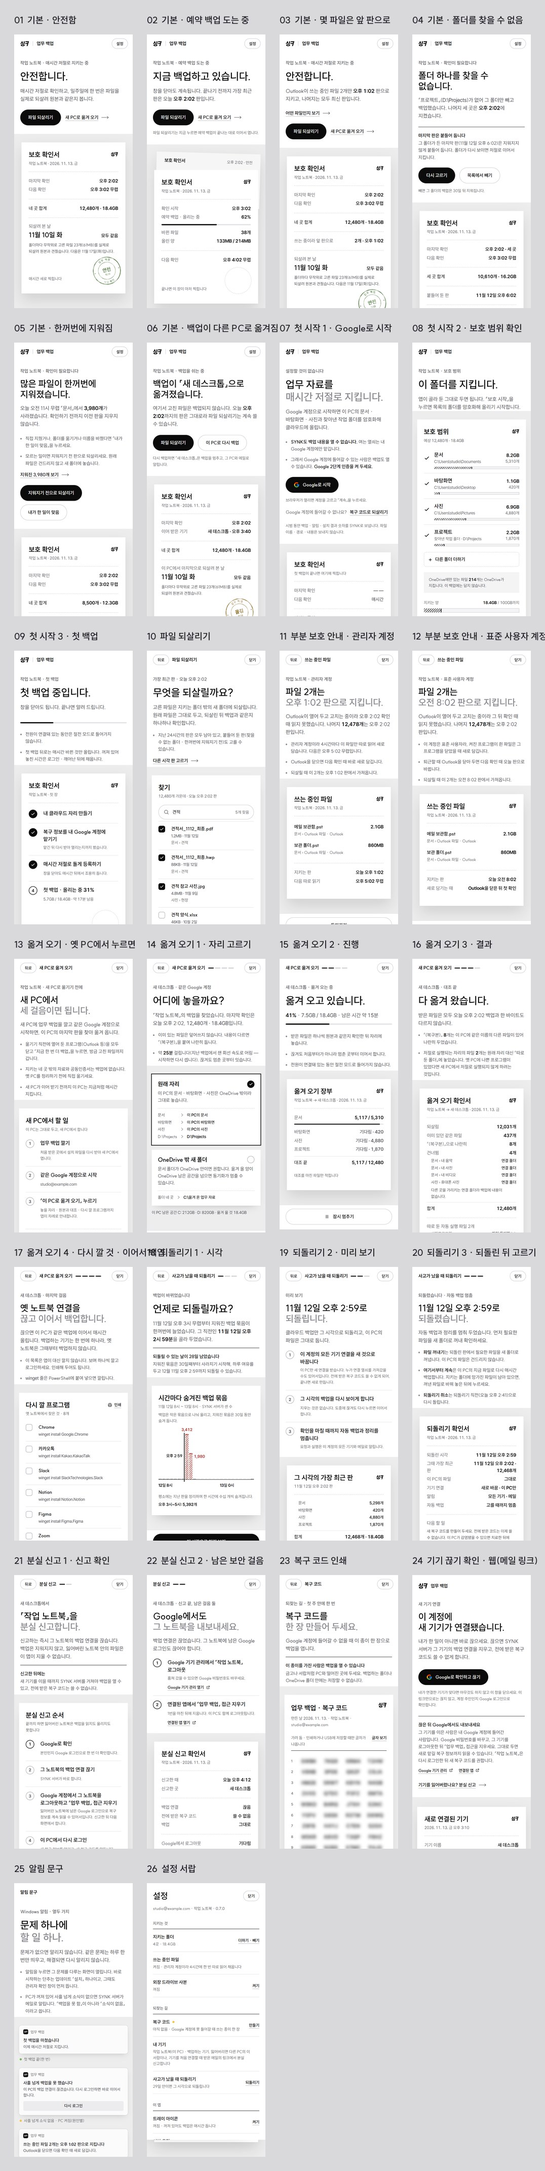
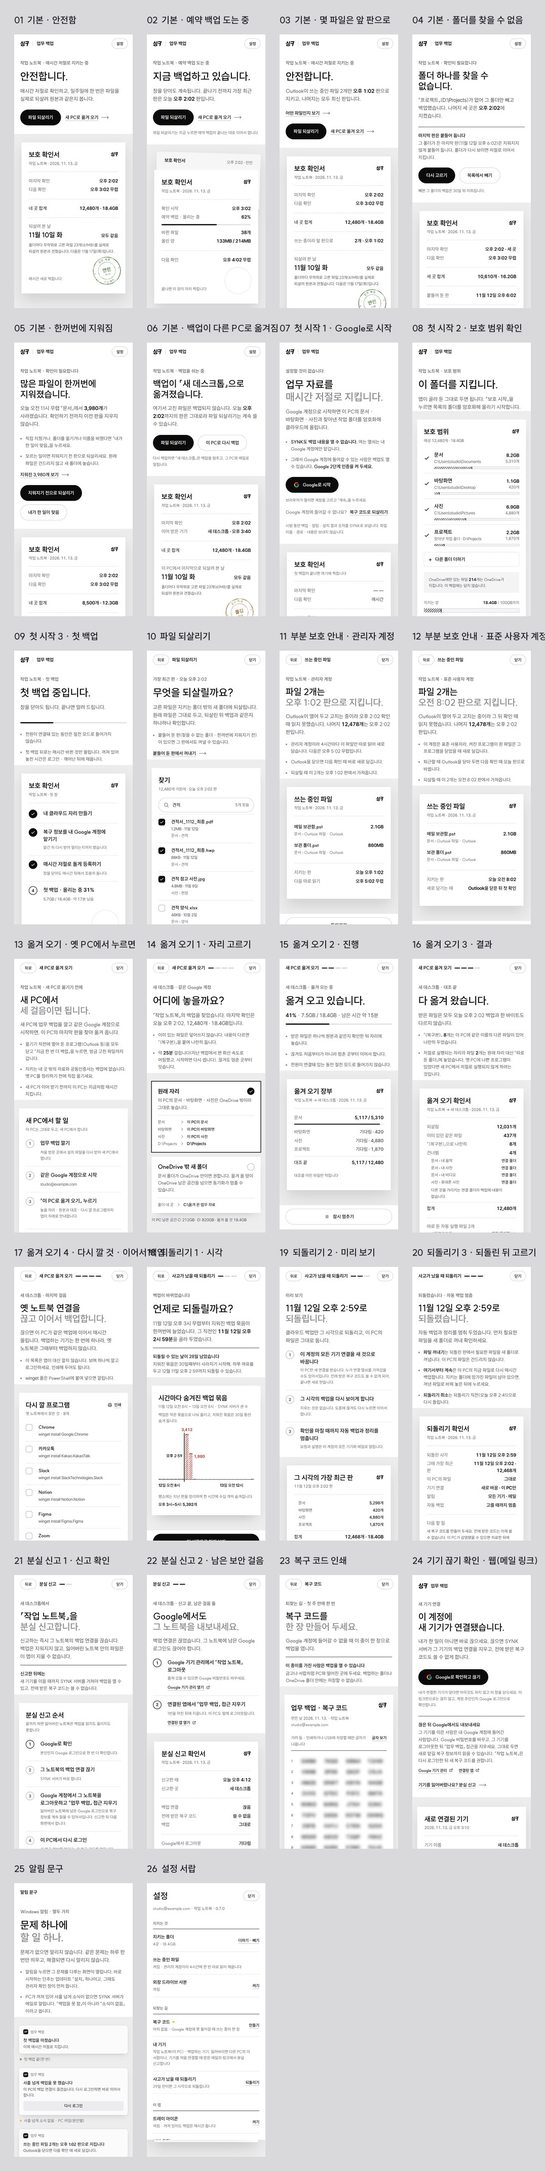
fix(업무 백업 0.7.0 화면 A · Fable 5.2 다시 확인 반영 · 11-13): F1 닫힘 · 새 P0 · P1 0 · P2 2 · P3 3 모두 반영. R1(꼭): 카본 ③을 받으며 되살리기에 넣은 「지난 24시간의 판은 모두 남아 있고 … 다른 시각 판 고르기」가 결정 11-12(화면 · 상품은 「최신 하나」, 「지난 판 고르기」는 유료 구간 후보)를 말없이 뒤집었다 → 「붙들어 둔 판(찾을 수 없는 폴더 · 한꺼번에 지워지기 전)이 있으면 그 판에서도 꺼낼 수 있습니다」 + 「붙들어 둔 판에서 꺼내기」(있을 때만)

Changed region(s): [[0.276, 0.4967, 0.46, 0.5588], [0.276, 0.3415, 0.3987, 0.4346]]

diff --git a/experiences/solo-backup-rust/ui-mockups/a-확인서.html b/experiences/solo-backup-rust/ui-mockups/a-확인서.html
@@ -250,9 +250,10 @@ h1.m{font-size:44px;line-height:1.18}
 .bars .pick{position:absolute;top:-6px;bottom:-8px;width:0;border-left:2px solid var(--ink)}
 .bars .pick span{position:absolute;top:40%;right:8px;font-size:13px;font-weight:700;white-space:nowrap}
 .ticks{display:grid;grid-template-columns:repeat(25,minmax(0,1fr));gap:5px;margin-top:8px;font-family:var(--num);font-size:13px;color:var(--ink-3)}
-.ticks span{visibility:hidden;text-align:center;white-space:nowrap}
+.ticks span{visibility:hidden;justify-self:center;white-space:nowrap}
 .ticks span.s{visibility:visible}
-.ticks span.d{visibility:visible;text-align:left;color:var(--ink);font-weight:600}
+.ticks span.d{visibility:visible;justify-self:start;color:var(--ink);font-weight:600}
+.ticks span.e{justify-self:end}
 .legend{display:flex;justify-content:space-between;align-items:baseline;gap:16px;margin-top:16px;font-size:13px;color:var(--ink-3);line-height:1.55}
 .legend b{color:var(--ink);font-weight:600;white-space:nowrap}
 .why{font-size:13px;line-height:1.55;color:var(--ink-3);margin-top:6px}
@@ -691,7 +692,7 @@ body.is-full .flow .act{position:static}
     <div class="top-r"><button class="tbtn" type="button">닫기</button></div></header>
   <div class="l">
     <div class="lt"><p class="kick">가장 최근 판 · 오늘 오후 2:02</p><h1 class="">무엇을 되살릴까요?</h1><p class="sub">고른 파일은 지키는 폴더 밖의 새 폴더에 되살립니다. 원래 파일은 그대로 두고, 되살린 뒤 백업과 같은지 하나하나 확인합니다.</p></div>
-    <div class="lx"><div class="notes"><p class="note">지난 24시간의 판은 모두 남아 있고, 붙들어 둔 판(찾을 수 없는 폴더 · 한꺼번에 지워지기 전)도 고를 수 있습니다.</p></div><a class="lnk" href="#restore" style="margin-top:14px">다른 시각 판 고르기 <svg class="la" viewBox="0 0 44 16" aria-hidden="true"><path d="M1 8h41M35 1l7 7-7 7"/></svg></a></div>
+    <div class="lx"><div class="notes"><p class="note">붙들어 둔 판(찾을 수 없는 폴더 · 한꺼번에 지워지기 전)이 있으면 그 판에서도 꺼낼 수 있습니다.</p></div><a class="lnk" href="#restore" style="margin-top:14px">붙들어 둔 판에서 꺼내기 <svg class="la" viewBox="0 0 44 16" aria-hidden="true"><path d="M1 8h41M35 1l7 7-7 7"/></svg></a></div>
     <div class="act"><button class="btn btn-solid" type="button">고른 3개 되살리기</button><button class="btn btn-line" type="button">전체 12,480개 되살리기</button></div>
     
   </div>
@@ -774,7 +775,7 @@ body.is-full .flow .act{position:static}
     <div class="top-r"><button class="tbtn" type="button">닫기</button></div></header>
   <div class="l">
     <div class="lt"><p class="kick">새 데스크톱 · 같은 Google 계정</p><h1 class="">어디에 놓을까요?</h1><p class="sub">「작업 노트북」의 백업을 찾았습니다. 마지막 확인은 오늘 오후 2:02, <span class="num keep">12,480개 · 18.4GB</span>입니다.</p></div>
-    <div class="lx"><div class="notes"><p class="note">이미 있는 파일은 덮어쓰지 않습니다. 내용이 다르면 「(복구본)」을 붙여 나란히 둡니다.</p><p class="note">약 <b class="num">25분</b> 걸립니다(지난 백업에서 잰 회선 속도로 어림 — 시작하면 다시 셉니다). 끊겨도 멈춘 곳부터 잇습니다.</p></div></div>
+    <div class="lx"><div class="notes"><p class="note">이미 있는 파일은 덮어쓰지 않습니다. 내용이 다르면 「(복구본)」을 붙여 나란히 둡니다.</p><p class="note">약 <b class="num">25분</b> 걸립니다(지난 백업에서 잰 회선 속도로 어림했고, 시작하면 다시 셉니다). 끊겨도 멈춘 곳부터 잇습니다.</p></div></div>
     <div class="act"><button class="btn btn-solid" type="button">이 자리로 옮겨 오기</button><p class="alt"><span>파일이 이 PC에 그대로 남아 있나요?</span><a class="lnk" href="#move-1">되살리지 않고 이어서 백업</a></p><span class="hint">Windows를 새로 깔아 파일이 비었거나 일부만 남았으면 누르지 마세요. 「이 자리로 옮겨 오기」로 채웁니다.</span></div>
     
   </div>
@@ -882,9 +883,9 @@ body.is-full .flow .act{position:static}
     
   </div>
   <div class="r"><div class="stage"><section class="sheet wide" aria-label="시간마다 숨겨진 백업 묶음">
-      <h2>시간마다 숨겨진 백업 묶음</h2><p class="meta">11월 12일 8시 ~ 13일 8시 · SYNK 서버가 센 수</p>
+      <h2>시간마다 숨겨진 백업 묶음</h2><p class="meta">11월 12일 오전 8시 ~ 13일 오전 8시 · SYNK 서버가 센 수</p>
       <p class="why">백업은 작은 묶음으로 나눠 올리고, 지워진 묶음은 30일 동안 숨겨 둡니다.</p>
-      <div class="chart"><div class="bars"><div class="b  " style="height:1.4%"></div><div class="b  " style="height:1.4%"></div><div class="b  " style="height:1.4%"></div><div class="b  " style="height:1.4%"></div><div class="b  " style="height:1.4%"></div><div class="b  " style="height:1.4%"></div><div class="b  " style="height:1.4%"></div><div class="b hot " style="height:100%"><span class="v num">3,412</span><span class="pick" style="left:-4px"><span>오후 2:59</span></span></div><div class="b hot " style="height:58.03048065650644%"><span class="v num side">1,980</span></div><div class="b  " style="height:1.4%"></div><div class="b  z" style="height:0%"></div><div class="b  z" style="height:0%"></div><div class="b  z" style="height:0%"></div><div class="b  z" style="height:0%"></div><div class="b  z" style="height:0%"></div><div class="b  z" style="height:0%"></div><div class="b  z" style="height:0%"></div><div class="b  z" style="height:0%"></div><div class="b  z" style="height:0%"></div><div class="b  z" style="height:0%"></div><div class="b  z" style="height:0%"></div><div class="b  z" style="height:0%"></div><div class="b  z" style="height:0%"></div><div class="b  z" style="height:0%"></div><div class="b  " style="height:1.4%"></div></div><div class="ticks"><span class="d">12일 8시</span><span class="">09</span><span class="">10</span><span class="s">11</span><span class="">12</span><span class="">13</span><span class="s">14</span><span class="">15</span><span class="">16</span><span class="s">17</span><span class="">18</span><span class="">19</span><span class="s">20</span><span class="">21</span><span class="">22</span><span class="">23</span><span class="d">13일 0시</span><span class="">01</span><span class="">02</span><span class="">03</span><span class="">04</span><span class="s">05</span><span class="">06</span><span class="">07</span><span class="s">08</span></div></div>
+      <div class="chart"><div class="bars"><div class="b  " style="height:1.4%"></div><div class="b  " style="height:1.4%"></div><div class="b  " style="height:1.4%"></div><div class="b  " style="height:1.4%"></div><div class="b  " style="height:1.4%"></div><div class="b  " style="height:1.4%"></div><div class="b  " style="height:1.4%"></div><div class="b hot " style="height:100%"><span class="v num">3,412</span><span class="pick" style="left:-4px"><span>오후 2:59</span></span></div><div class="b hot " style="height:58.03048065650644%"><span class="v num side">1,980</span></div><div class="b  " style="height:1.4%"></div><div class="b  z" style="height:0%"></div><div class="b  z" style="height:0%"></div><div class="b  z" style="height:0%"></div><div class="b  z" style="height:0%"></div><div class="b  z" style="height:0%"></div><div class="b  z" style="height:0%"></div><div class="b  z" style="height:0%"></div><div class="b  z" style="height:0%"></div><div class="b  z" style="height:0%"></div><div class="b  z" style="height:0%"></div><div class="b  z" style="height:0%"></div><div class="b  z" style="height:0%"></div><div class="b  z" style="height:0%"></div><div class="b  z" style="height:0%"></div><div class="b  " style="height:1.4%"></div></div><div class="ticks"><span class="d">12일 오전 8시</span><span class="">09</span><span class="">10</span><span class="">11</span><span class="">12</span><span class="">13</span><span class="">14</span><span class="">15</span><span class="s">오후 4시</span><span class="">17</span><span class="">18</span><span class="">19</span><span class="">20</span><span class="">21</span><span class="">22</span><span class="">23</span><span class="d">13일 오전 12시</span><span class="">01</span><span class="">02</span><span class="">03</span><span class="">04</span><span class="">05</span><span class="">06</span><span class="">07</span><span class="s e">8시</span></div></div>
       <div class="legend"><span>평소에는 지난 판을 정리하며 한 시간에 수십 개씩 숨겨집니다.</span><b class="num">오후 3시~5시: 5,392개</b></div>
     </section></div></div>
 </div></section>
@@ -1083,7 +1084,7 @@ body.is-full .flow .act{position:static}
     
     
   </div>
-  <div class="r"><div class="stage"><div class="toasts"><div class="tw"><div class="toast"><div class="app"><i><svg class="mark" viewBox="0 0 560 328" role="img" aria-label="싱ㅋ"><path d="M87 8h58v30c0 46 23 76 61 103l-34 43c-29-19-52-45-66-70-15 30-36 54-64 72L8 143c49-32 79-64 79-112Z"/><path d="M222 8h58v172h-58Z"/><path fill-rule="evenodd" d="M157 192c-76 0-124 24-124 65s48 65 124 65 124-24 124-65-48-65-124-65Zm0 45c42 0 67 8 67 20s-25 20-67 20-67-8-67-20 25-20 67-20Z"/><path d="M326 8h226L464 312h-61l40-138H322v-54h137l16-55H326Z"/></svg></i>업무 백업</div><h4>첫 백업을 마쳤습니다</h4><p>이제 매시간 저절로 지킵니다.</p></div><p class="when"><b class="ok"></b>첫 백업 끝(한 번)</p></div><div class="tw"><div class="toast"><div class="app"><i><svg class="mark" viewBox="0 0 560 328" role="img" aria-label="싱ㅋ"><path d="M87 8h58v30c0 46 23 76 61 103l-34 43c-29-19-52-45-66-70-15 30-36 54-64 72L8 143c49-32 79-64 79-112Z"/><path d="M222 8h58v172h-58Z"/><path fill-rule="evenodd" d="M157 192c-76 0-124 24-124 65s48 65 124 65 124-24 124-65-48-65-124-65Zm0 45c42 0 67 8 67 20s-25 20-67 20-67-8-67-20 25-20 67-20Z"/><path d="M326 8h226L464 312h-61l40-138H322v-54h137l16-55H326Z"/></svg></i>업무 백업</div><h4>사흘 넘게 백업을 못 했습니다</h4><p>이 PC의 백업 연결이 끊겼습니다. 다시 로그인하면 바로 이어서 합니다.</p><div class="tb">다시 로그인</div></div><p class="when"><b class="warn"></b>사흘 넘게 소식 없음 · PC 켜짐(원인별)</p></div><div class="tw"><div class="toast"><div class="app"><i><svg class="mark" viewBox="0 0 560 328" role="img" aria-label="싱ㅋ"><path d="M87 8h58v30c0 46 23 76 61 103l-34 43c-29-19-52-45-66-70-15 30-36 54-64 72L8 143c49-32 79-64 79-112Z"/><path d="M222 8h58v172h-58Z"/><path fill-rule="evenodd" d="M157 192c-76 0-124 24-124 65s48 65 124 65 124-24 124-65-48-65-124-65Zm0 45c42 0 67 8 67 20s-25 20-67 20-67-8-67-20 25-20 67-20Z"/><path d="M326 8h226L464 312h-61l40-138H322v-54h137l16-55H326Z"/></svg></i>업무 백업</div><h4>쓰는 중인 파일 2개는 오후 1:02 판으로 지킵니다</h4><p>Outlook을 닫으면 다음 확인 때 새로 담깁니다.</p></div><p class="when"><b class="info"></b>몇 파일만 못 지킴</p></div><div class="tw"><div class="toast"><div class="app"><i><svg class="mark" viewBox="0 0 560 328" role="img" aria-label="싱ㅋ"><path d="M87 8h58v30c0 46 23 76 61 103l-34 43c-29-19-52-45-66-70-15 30-36 54-64 72L8 143c49-32 79-64 79-112Z"/><path d="M222 8h58v172h-58Z"/><path fill-rule="evenodd" d="M157 192c-76 0-124 24-124 65s48 65 124 65 124-24 124-65-48-65-124-65Zm0 45c42 0 67 8 67 20s-25 20-67 20-67-8-67-20 25-20 67-20Z"/><path d="M326 8h226L464 312h-61l40-138H322v-54h137l16-55H326Z"/></svg></i>업무 백업</div><h4>「프로젝트」 폴더를 찾을 수 없습니다</h4><p>마지막 판(11월 12일 오후 6:02)은 지워지지 않게 붙들어 둡니다. 다시 고르거나 목록에서 빼세요.</p><div class="tb">확인하기</div></div><p class="when"><b class="warn"></b>폴더를 찾을 수 없음</p></div><div class="tw"><div class="toast"><div class="app"><i><svg class="mark" viewBox="0 0 560 328" role="img" aria-label="싱ㅋ"><path d="M87 8h58v30c0 46 23 76 61 103l-34 43c-29-19-52-45-66-70-15 30-36 54-64 72L8 143c49-32 79-64 79-112Z"/><path d="M222 8h58v172h-58Z"/><path fill-rule="evenodd" d="M157 192c-76 0-124 24-124 65s48 65 124 65 124-24 124-65-48-65-124-65Zm0 45c42 0 67 8 67 20s-25 20-67 20-67-8-67-20 25-20 67-20Z"/><path d="M326 8h226L464 312h-61l40-138H322v-54h137l16-55H326Z"/></svg></i>업무 백업</div><h4>백업이 바뀌었습니다</h4><p>되돌릴 수 있는 날이 28일 남았습니다.</p><div class="tb">확인하기</div></div><p class="when"><b class="bad"></b>점검 실패 · 백업이 바뀜(서버 탐지)</p></div><div class="tw"><div class="toast"><div class="app"><i><svg class="mark" viewBox="0 0 560 328" role="img" aria-label="싱ㅋ"><path d="M87 8h58v30c0 46 23 76 61 103l-34 43c-29-19-52-45-66-70-15 30-36 54-64 72L8 143c49-32 79-64 79-112Z"/><path d="M222 8h58v172h-58Z"/><path fill-rule="evenodd" d="M157 192c-76 0-124 24-124 65s48 65 124 65 124-24 124-65-48-65-124-65Zm0 45c42 0 67 8 67 20s-25 20-67 20-67-8-67-20 25-20 67-20Z"/><path d="M326 8h226L464 312h-61l40-138H322v-54h137l16-55H326Z"/></svg></i>업무 백업</div><h4>되살려 보기에서 꺼내지지 않는 파일이 나왔습니다</h4><p>확인하기 전까지 이전 판을 지우지 않습니다.</p><div class="tb">확인하기</div></div><p class="when"><b class="bad"></b>되살리기 증명에서 손상 — 그날</p></div><div class="tw"><div class="toast"><div class="app"><i><svg class="mark" viewBox="0 0 560 328" role="img" aria-label="싱ㅋ"><path d="M87 8h58v30c0 46 23 76 61 103l-34 43c-29-19-52-45-66-70-15 30-36 54-64 72L8 143c49-32 79-64 79-112Z"/><path d="M222 8h58v172h-58Z"/><path fill-rule="evenodd" d="M157 192c-76 0-124 24-124 65s48 65 124 65 124-24 124-65-48-65-124-65Zm0 45c42 0 67 8 67 20s-25 20-67 20-67-8-67-20 25-20 67-20Z"/><path d="M326 8h226L464 312h-61l40-138H322v-54h137l16-55H326Z"/></svg></i>업무 백업</div><h4>많은 파일이 한꺼번에 지워졌습니다</h4><p>「문서」에서 3,980개. 확인하기 전까지 이전 판을 지우지 않습니다.</p><div class="tb">확인하기</div></div><p class="when"><b class="bad"></b>많은 파일이 한꺼번에 지워지거나 바뀜</p></div><div class="tw"><div class="toast"><div class="app"><i><svg class="mark" viewBox="0 0 560 328" role="img" aria-label="싱ㅋ"><path d="M87 8h58v30c0 46 23 76 61 103l-34 43c-29-19-52-45-66-70-15 30-36 54-64 72L8 143c49-32 79-64 79-112Z"/><path d="M222 8h58v172h-58Z"/><path fill-rule="evenodd" d="M157 192c-76 0-124 24-124 65s48 65 124 65 124-24 124-65-48-65-124-65Zm0 45c42 0 67 8 67 20s-25 20-67 20-67-8-67-20 25-20 67-20Z"/><path d="M326 8h226L464 312h-61l40-138H322v-54h137l16-55H326Z"/></svg></i>업무 백업</div><h4>이 계정에 새 기기가 연결됐습니다</h4><p>「새 데스크톱」 · 오늘 오후 3:10. 내가 한 일이 아니면 끊으세요.</p><div class="tb">확인하기</div></div><p class="when"><b class="warn"></b>새 기기 연결 · 되돌리기 요청</p></div><div class="tw"><div class="toast"><div class="app"><i><svg class="mark" viewBox="0 0 560 328" role="img" aria-label="싱ㅋ"><path d="M87 8h58v30c0 46 23 76 61 103l-34 43c-29-19-52-45-66-70-15 30-36 54-64 72L8 143c49-32 79-64 79-112Z"/><path d="M222 8h58v172h-58Z"/><path fill-rule="evenodd" d="M157 192c-76 0-124 24-124 65s48 65 124 65 124-24 124-65-48-65-124-65Zm0 45c42 0 67 8 67 20s-25 20-67 20-67-8-67-20 25-20 67-20Z"/><path d="M326 8h226L464 312h-61l40-138H322v-54h137l16-55H326Z"/></svg></i>업무 백업</div><h4>되돌린 상태로 멈춰 있습니다</h4><p>파일을 확인했으면 이어 갈 방법을 고르세요.</p><div class="tb">고르러 가기</div></div><p class="when"><b class="warn"></b>되돌린 뒤 고르기 기다림(하루 한 번)</p></div><div class="tw"><div class="toast"><div class="app"><i><svg class="mark" viewBox="0 0 560 328" role="img" aria-label="싱ㅋ"><path d="M87 8h58v30c0 46 23 76 61 103l-34 43c-29-19-52-45-66-70-15 30-36 54-64 72L8 143c49-32 79-64 79-112Z"/><path d="M222 8h58v172h-58Z"/><path fill-rule="evenodd" d="M157 192c-76 0-124 24-124 65s48 65 124 65 124-24 124-65-48-65-124-65Zm0 45c42 0 67 8 67 20s-25 20-67 20-67-8-67-20 25-20 67-20Z"/><path d="M326 8h226L464 312h-61l40-138H322v-54h137l16-55H326Z"/></svg></i>업무 백업</div><h4>100GB에 가까워졌습니다</h4><p>지금 96GB입니다. 넘으면 새로 바뀐 파일을 올리지 않습니다.</p><div class="tb">폴더 줄이기</div></div><p class="when"><b class="warn"></b>용량 상한에 가까움 · 넘음</p></div><div class="tw"><div class="toast"><div class="app"><i><svg class="mark" viewBox="0 0 560 328" role="img" aria-label="싱ㅋ"><path d="M87 8h58v30c0 46 23 76 61 103l-34 43c-29-19-52-45-66-70-15 30-36 54-64 72L8 143c49-32 79-64 79-112Z"/><path d="M222 8h58v172h-58Z"/><path fill-rule="evenodd" d="M157 192c-76 0-124 24-124 65s48 65 124 65 124-24 124-65-48-65-124-65Zm0 45c42 0 67 8 67 20s-25 20-67 20-67-8-67-20 25-20 67-20Z"/><path d="M326 8h226L464 312h-61l40-138H322v-54h137l16-55H326Z"/></svg></i>업무 백업</div><h4>Google 계정에 맡긴 복구 정보를 확인하지 못했습니다</h4><p>다시 로그인하면 바로 다시 확인합니다.</p><div class="tb">다시 로그인</div></div><p class="when"><b class="warn"></b>복구 정보 재확인 실패</p></div><div class="tw"><div class="toast"><div class="app"><i><svg class="mark" viewBox="0 0 560 328" role="img" aria-label="싱ㅋ"><path d="M87 8h58v30c0 46 23 76 61 103l-34 43c-29-19-52-45-66-70-15 30-36 54-64 72L8 143c49-32 79-64 79-112Z"/><path d="M222 8h58v172h-58Z"/><path fill-rule="evenodd" d="M157 192c-76 0-124 24-124 65s48 65 124 65 124-24 124-65-48-65-124-65Zm0 45c42 0 67 8 67 20s-25 20-67 20-67-8-67-20 25-20 67-20Z"/><path d="M326 8h226L464 312h-61l40-138H322v-54h137l16-55H326Z"/></svg></i>업무 백업</div><h4>업데이트가 준비됐습니다</h4><p>설치할 때 관리자 확인 창이 한 번 뜹니다.</p><div class="tb">설치</div></div><p class="when"><b class="info"></b>업데이트 준비됨(표준 사용자는 「관리자에게 부탁하기」 · 주 1회)</p></div></div></div></div>
+  <div class="r"><div class="stage"><div class="toasts"><div class="tw"><div class="toast"><div class="app"><i><svg class="mark" viewBox="0 0 560 328" role="img" aria-label="싱ㅋ"><path d="M87 8h58v30c0 46 23 76 61 103l-34 43c-29-19-52-45-66-70-15 30-36 54-64 72L8 143c49-32 79-64 79-112Z"/><path d="M222 8h58v172h-58Z"/><path fill-rule="evenodd" d="M157 192c-76 0-124 24-124 65s48 65 124 65 124-24 124-65-48-65-124-65Zm0 45c42 0 67 8 67 20s-25 20-67 20-67-8-67-20 25-20 67-20Z"/><path d="M326 8h226L464 312h-61l40-138H322v-54h137l16-55H326Z"/></svg></i>업무 백업</div><h4>첫 백업을 마쳤습니다</h4><p>이제 매시간 저절로 지킵니다.</p></div><p class="when"><b class="ok"></b>첫 백업 끝(한 번)</p></div><div class="tw"><div class="toast"><div class="app"><i><svg class="mark" viewBox="0 0 560 328" role="img" aria-label="싱ㅋ"><path d="M87 8h58v30c0 46 23 76 61 103l-34 43c-29-19-52-45-66-70-15 30-36 54-64 72L8 143c49-32 79-64 79-112Z"/><path d="M222 8h58v172h-58Z"/><path fill-rule="evenodd" d="M157 192c-76 0-124 24-124 65s48 65 124 65 124-24 124-65-48-65-124-65Zm0 45c42 0 67 8 67 20s-25 20-67 20-67-8-67-20 25-20 67-20Z"/><path d="M326 8h226L464 312h-61l40-138H322v-54h137l16-55H326Z"/></svg></i>업무 백업</div><h4>사흘 넘게 백업을 못 했습니다</h4><p>이 PC의 백업 연결이 끊겼습니다. 다시 로그인하면 바로 이어서 합니다.</p><div class="tb">다시 로그인</div></div><p class="when"><b class="warn"></b>사흘 넘게 소식 없음 · PC 켜짐(원인별)</p></div><div class="tw"><div class="toast"><div class="app"><i><svg class="mark" viewBox="0 0 560 328" role="img" aria-label="싱ㅋ"><path d="M87 8h58v30c0 46 23 76 61 103l-34 43c-29-19-52-45-66-70-15 30-36 54-64 72L8 143c49-32 79-64 79-112Z"/><path d="M222 8h58v172h-58Z"/><path fill-rule="evenodd" d="M157 192c-76 0-124 24-124 65s48 65 124 65 124-24 124-65-48-65-124-65Zm0 45c42 0 67 8 67 20s-25 20-67 20-67-8-67-20 25-20 67-20Z"/><path d="M326 8h226L464 312h-61l40-138H322v-54h137l16-55H326Z"/></svg></i>업무 백업</div><h4>쓰는 중인 파일 2개는 오후 1:02 판으로 지킵니다</h4><p>Outlook을 닫으면 다음 확인 때 새로 담깁니다.</p></div><p class="when"><b class="info"></b>몇 파일만 못 지킴</p></div><div class="tw"><div class="toast"><div class="app"><i><svg class="mark" viewBox="0 0 560 328" role="img" aria-label="싱ㅋ"><path d="M87 8h58v30c0 46 23 76 61 103l-34 43c-29-19-52-45-66-70-15 30-36 54-64 72L8 143c49-32 79-64 79-112Z"/><path d="M222 8h58v172h-58Z"/><path fill-rule="evenodd" d="M157 192c-76 0-124 24-124 65s48 65 124 65 124-24 124-65-48-65-124-65Zm0 45c42 0 67 8 67 20s-25 20-67 20-67-8-67-20 25-20 67-20Z"/><path d="M326 8h226L464 312h-61l40-138H322v-54h137l16-55H326Z"/></svg></i>업무 백업</div><h4>「프로젝트」 폴더를 찾을 수 없습니다</h4><p>마지막 판(11월 12일 오후 6:02)은 지워지지 않게 붙들어 둡니다. 다시 고르거나 목록에서 빼세요.</p><div class="tb">확인하기</div></div><p class="when"><b class="warn"></b>폴더를 찾을 수 없음</p></div><div class="tw"><div class="toast"><div class="app"><i><svg class="mark" viewBox="0 0 560 328" role="img" aria-label="싱ㅋ"><path d="M87 8h58v30c0 46 23 76 61 103l-34 43c-29-19-52-45-66-70-15 30-36 54-64 72L8 143c49-32 79-64 79-112Z"/><path d="M222 8h58v172h-58Z"/><path fill-rule="evenodd" d="M157 192c-76 0-124 24-124 65s48 65 124 65 124-24 124-65-48-65-124-65Zm0 45c42 0 67 8 67 20s-25 20-67 20-67-8-67-20 25-20 67-20Z"/><path d="M326 8h226L464 312h-61l40-138H322v-54h137l16-55H326Z"/></svg></i>업무 백업</div><h4>백업이 바뀌었습니다</h4><p>되돌릴 수 있는 날이 28일 남았습니다.</p><div class="tb">확인하기</div></div><p class="when"><b class="bad"></b>점검 실패 · 백업이 바뀜(서버 탐지)</p></div><div class="tw"><div class="toast"><div class="app"><i><svg class="mark" viewBox="0 0 560 328" role="img" aria-label="싱ㅋ"><path d="M87 8h58v30c0 46 23 76 61 103l-34 43c-29-19-52-45-66-70-15 30-36 54-64 72L8 143c49-32 79-64 79-112Z"/><path d="M222 8h58v172h-58Z"/><path fill-rule="evenodd" d="M157 192c-76 0-124 24-124 65s48 65 124 65 124-24 124-65-48-65-124-65Zm0 45c42 0 67 8 67 20s-25 20-67 20-67-8-67-20 25-20 67-20Z"/><path d="M326 8h226L464 312h-61l40-138H322v-54h137l16-55H326Z"/></svg></i>업무 백업</div><h4>되살려 보기에서 꺼내지지 않는 파일이 나왔습니다</h4><p>확인하기 전까지 이전 판을 지우지 않습니다.</p><div class="tb">확인하기</div></div><p class="when"><b class="bad"></b>되살리기 증명에서 손상 · 그날</p></div><div class="tw"><div class="toast"><div class="app"><i><svg class="mark" viewBox="0 0 560 328" role="img" aria-label="싱ㅋ"><path d="M87 8h58v30c0 46 23 76 61 103l-34 43c-29-19-52-45-66-70-15 30-36 54-64 72L8 143c49-32 79-64 79-112Z"/><path d="M222 8h58v172h-58Z"/><path fill-rule="evenodd" d="M157 192c-76 0-124 24-124 65s48 65 124 65 124-24 124-65-48-65-124-65Zm0 45c42 0 67 8 67 20s-25 20-67 20-67-8-67-20 25-20 67-20Z"/><path d="M326 8h226L464 312h-61l40-138H322v-54h137l16-55H326Z"/></svg></i>업무 백업</div><h4>많은 파일이 한꺼번에 지워졌습니다</h4><p>「문서」에서 3,980개. 확인하기 전까지 이전 판을 지우지 않습니다.</p><div class="tb">확인하기</div></div><p class="when"><b class="bad"></b>많은 파일이 한꺼번에 지워지거나 바뀜</p></div><div class="tw"><div class="toast"><div class="app"><i><svg class="mark" viewBox="0 0 560 328" role="img" aria-label="싱ㅋ"><path d="M87 8h58v30c0 46 23 76 61 103l-34 43c-29-19-52-45-66-70-15 30-36 54-64 72L8 143c49-32 79-64 79-112Z"/><path d="M222 8h58v172h-58Z"/><path fill-rule="evenodd" d="M157 192c-76 0-124 24-124 65s48 65 124 65 124-24 124-65-48-65-124-65Zm0 45c42 0 67 8 67 20s-25 20-67 20-67-8-67-20 25-20 67-20Z"/><path d="M326 8h226L464 312h-61l40-138H322v-54h137l16-55H326Z"/></svg></i>업무 백업</div><h4>이 계정에 새 기기가 연결됐습니다</h4><p>「새 데스크톱」 · 오늘 오후 3:10. 내가 한 일이 아니면 끊으세요.</p><div class="tb">확인하기</div></div><p class="when"><b class="warn"></b>새 기기 연결 · 되돌리기 요청</p></div><div class="tw"><div class="toast"><div class="app"><i><svg class="mark" viewBox="0 0 560 328" role="img" aria-label="싱ㅋ"><path d="M87 8h58v30c0 46 23 76 61 103l-34 43c-29-19-52-45-66-70-15 30-36 54-64 72L8 143c49-32 79-64 79-112Z"/><path d="M222 8h58v172h-58Z"/><path fill-rule="evenodd" d="M157 192c-76 0-124 24-124 65s48 65 124 65 124-24 124-65-48-65-124-65Zm0 45c42 0 67 8 67 20s-25 20-67 20-67-8-67-20 25-20 67-20Z"/><path d="M326 8h226L464 312h-61l40-138H322v-54h137l16-55H326Z"/></svg></i>업무 백업</div><h4>되돌린 상태로 멈춰 있습니다</h4><p>파일을 확인했으면 이어 갈 방법을 고르세요.</p><div class="tb">고르러 가기</div></div><p class="when"><b class="warn"></b>되돌린 뒤 고르기 기다림(하루 한 번)</p></div><div class="tw"><div class="toast"><div class="app"><i><svg class="mark" viewBox="0 0 560 328" role="img" aria-label="싱ㅋ"><path d="M87 8h58v30c0 46 23 76 61 103l-34 43c-29-19-52-45-66-70-15 30-36 54-64 72L8 143c49-32 79-64 79-112Z"/><path d="M222 8h58v172h-58Z"/><path fill-rule="evenodd" d="M157 192c-76 0-124 24-124 65s48 65 124 65 124-24 124-65-48-65-124-65Zm0 45c42 0 67 8 67 20s-25 20-67 20-67-8-67-20 25-20 67-20Z"/><path d="M326 8h226L464 312h-61l40-138H322v-54h137l16-55H326Z"/></svg></i>업무 백업</div><h4>100GB에 가까워졌습니다</h4><p>지금 96GB입니다. 넘으면 새로 바뀐 파일을 올리지 않습니다.</p><div class="tb">폴더 줄이기</div></div><p class="when"><b class="warn"></b>용량 상한에 가까움 · 넘음</p></div><div class="tw"><div class="toast"><div class="app"><i><svg class="mark" viewBox="0 0 560 328" role="img" aria-label="싱ㅋ"><path d="M87 8h58v30c0 46 23 76 61 103l-34 43c-29-19-52-45-66-70-15 30-36 54-64 72L8 143c49-32 79-64 79-112Z"/><path d="M222 8h58v172h-58Z"/><path fill-rule="evenodd" d="M157 192c-76 0-124 24-124 65s48 65 124 65 124-24 124-65-48-65-124-65Zm0 45c42 0 67 8 67 20s-25 20-67 20-67-8-67-20 25-20 67-20Z"/><path d="M326 8h226L464 312h-61l40-138H322v-54h137l16-55H326Z"/></svg></i>업무 백업</div><h4>Google 계정에 맡긴 복구 정보를 확인하지 못했습니다</h4><p>다시 로그인하면 바로 다시 확인합니다.</p><div class="tb">다시 로그인</div></div><p class="when"><b class="warn"></b>복구 정보 재확인 실패</p></div><div class="tw"><div class="toast"><div class="app"><i><svg class="mark" viewBox="0 0 560 328" role="img" aria-label="싱ㅋ"><path d="M87 8h58v30c0 46 23 76 61 103l-34 43c-29-19-52-45-66-70-15 30-36 54-64 72L8 143c49-32 79-64 79-112Z"/><path d="M222 8h58v172h-58Z"/><path fill-rule="evenodd" d="M157 192c-76 0-124 24-124 65s48 65 124 65 124-24 124-65-48-65-124-65Zm0 45c42 0 67 8 67 20s-25 20-67 20-67-8-67-20 25-20 67-20Z"/><path d="M326 8h226L464 312h-61l40-138H322v-54h137l16-55H326Z"/></svg></i>업무 백업</div><h4>업데이트가 준비됐습니다</h4><p>설치할 때 관리자 확인 창이 한 번 뜹니다.</p><div class="tb">설치</div></div><p class="when"><b class="info"></b>업데이트 준비됨(표준 사용자는 「관리자에게 부탁하기」 · 주 1회)</p></div></div></div></div>
 </div></section>
 <section class="scr " id="s-drawer" data-title="설정 서랍"><div class="sp home"><header class="top"><div class="brand"><svg class="mark" viewBox="0 0 560 328" role="img" aria-label="싱ㅋ"><path d="M87 8h58v30c0 46 23 76 61 103l-34 43c-29-19-52-45-66-70-15 30-36 54-64 72L8 143c49-32 79-64 79-112Z"/><path d="M222 8h58v172h-58Z"/><path fill-rule="evenodd" d="M157 192c-76 0-124 24-124 65s48 65 124 65 124-24 124-65-48-65-124-65Zm0 45c42 0 67 8 67 20s-25 20-67 20-67-8-67-20 25-20 67-20Z"/><path d="M326 8h226L464 312h-61l40-138H322v-54h137l16-55H326Z"/></svg><span class="bar"></span><span>업무 백업</span></div>
       <div class="top-r"><button class="tbtn" type="button">설정</button></div></header>

diff --git a/experiences/solo-backup-rust/ui-mockups/README.md b/experiences/solo-backup-rust/ui-mockups/README.md
@@ -43,7 +43,7 @@
 | 7 | 첫 시작 1 · Google로 시작 | `#start-1` | 2.1 · 2단계 인증 한 줄 · 측정 한 줄(4.9) |
 | 8 | 첫 시작 2 · 보호 범위 확인 | `#start-2` | 2.1 · OneDrive 줄 · 측정 한 줄 · 「보호 시작」이 곧 범위 동의 |
 | 9 | 첫 시작 3 · 첫 백업 | `#start-3` | 개통 → 복구 정보 → 예약 → 첫 백업, 「창을 닫아도 됩니다」 |
-| 10 | 파일 되살리기 | `#restore` | 4.6 — 평소 되살리기는 지키는 폴더 밖 새 폴더로만(0.5.0 엔진도 원본 폴더와 겹치는 자리를 거부), 되살린 뒤 백업과 대조. 4.2 — 지난 24시간 판 · 붙들어 둔 판을 「다른 시각 판 고르기」로, 고른 것 · 전체를 나눈 단추 |
+| 10 | 파일 되살리기 | `#restore` | 4.6 — 평소 되살리기는 지키는 폴더 밖 새 폴더로만(0.5.0 엔진도 원본 폴더와 겹치는 자리를 거부), 되살린 뒤 백업과 대조. 화면은 「최신 하나」(결정 11-12 — 내부 24시간은 약속이 아니고 「지난 판 고르기」는 유료 구간 후보), 4.2 · 4.4 — 붙들어 둔 판(찾을 수 없는 폴더 · 한꺼번에 지워지기 전)이 있을 때만 「붙들어 둔 판에서 꺼내기」, 고른 것 · 전체를 나눈 단추 |
 | 11 | 부분 보호 안내 · 관리자 계정 | `#partial` | 4.2 — 4시간에 한 번 따로 읽어 채움 |
 | 12 | 부분 보호 안내 · 표준 사용자 계정 | `#partial-std` | 1장 「열린 파일」 · 4.2 — 「이 계정은 표준 사용자라, 켜진 프로그램이 쥔 파일은 그 프로그램을 닫았을 때 새로 담깁니다」 |
 | 13 | 옮겨 오기 · 옛 PC에서 누르면(A만) | `#move-0` | 2.3 · 4.6 — 백업하는 PC에서는 옮겨 오기를 돌리지 않는다. 기본 화면의 「새 PC로 옮겨 오기」는 「새 PC에서 할 일」 세 걸음과 「지금 한 번 더 백업」을 연다. 열어 둔 프로그램을 닫고 백업하기, 네 곳 밖 자료 · 공동인증서는 직접 옮기기, 복구 코드로는 파일만 옮겨 옴(이어서 백업은 Google 로그인) |
@@ -92,6 +92,7 @@ python -X utf8 experiences/solo-backup-rust/ui-mockups/_src/sheet.py 견줌 <캡
 | 실제 앱 창 크기 · 26개 전부(11-13, 내용 검수 반영 뒤) | A 26개를 기본 창 1080×820 · 최소 창 760×640으로 | 앞 견줌(여섯)에 없던 「되돌리기 2」(높이 958)와 「옮겨 오기 4」(1,190 — 오른쪽 목록이 길어 왼쪽 면이 같이 내려감)의 주 단추가 기본 창 첫 화면 밖이었다. 넓은 창에서 왼쪽 면을 창에 붙이고(sticky), 높이 860 아래 창에서는 위아래 여백 · 제목 크기를 줄이고, 「되돌리기 2」 제목 · 설명을 두 줄로 줄였다. 26개 × 두 크기 모두 주 단추가 첫 화면, 넘침 · 잘림 0. 1440 · 390 캡처 52장 넘침 · 대비 경고 0 |
 | Fable 5.2(검수 세션, 모델 `claude-fable-5-2` 확인, 11-13 07:17) | A · B 원고 전문 · README · 설계 0~3장 · 4.1 · 4.2 · 4.4~4.9 · 4.12 · 5.4 · 5.5 · 9장 · 다시 찍은 96장(고르기 전 판 `94b530bbb`) | P1 1 · P2 12 · P3 20, 「슬롭으로 기각할 판은 없다」. 한도에 걸린 것은 검수 파일을 다 쓴 뒤 끝 보고 때였다. **A에 걸리는 것 모두 반영**(B만의 F8 · F12 · F13 · F17 · F20 · F22~F24 · F31은 B가 고를 때 판의 기록이라 두었다). F1(P1, 웹 끊기가 읽기까지 막는다고 잘못 안심시킴) · F2 · F3 · F9는 카본 ⑦ · ① · ⑨ · ②와 같아 위 줄로 고쳤다. F4 「30일 안이면」 → 「29일 안이면」(설계 4.4-7 T + 29일), 되돌리기 1 상자 「30일째부터 사라지기 시작해, 하루 여유를 두고 … 까지」 · F5 · F6 도장 낱말 안전 · 주의 · 경고 · 옮김(「멈춤」은 백업이 멈춘 것으로, 「확인」은 「확인함」으로 읽혔다), 한꺼번에 지워짐 상태 줄 「확인이 필요합니다」 · F7 「지워진 3,980개 보기」 · F9 되살릴 자리 이름을 잉크 600으로 · F10 단계 이름 「다시 깔 것 · 이어서 백업」, 들어오는 단추 「다음 · 백업 켜기」, 목록 머리 「인쇄」, 왼쪽 면은 창에 붙음 · F11 390 흐름 머리 한 줄(「1 / 4」 숫자는 빼고 네 칸 줄만)과 설명 · 노트 사이 · F14 A 확인서의 시각을 「오후 6:02」 꼴로(되돌리기 1의 그래프 눈금만 칸이 좁아 24시 숫자 그대로) · F15 옮겨진 PC 확인서에서 「다음 되살려 보기」 뺌 · F16 도장 테두리 글 고정 · F18 쓰는 중인 파일 상태 줄을 「작업 노트북 · 관리자 계정」 · F19 「받은 파일은 모두 오늘 오후 2:02 백업과 …」 · F21 되살리기 목록 줄 사이 · F27 알림 둘째 「이 PC의 백업 연결이 끊겼습니다」, 알림 왼쪽 글을 「바로 시작하는 단추는 업데이트 「설치」 하나 · 그때도 관리자 확인 창이 먼저」로(「설치」는 설계 2.2 그대로) · F28 걸리는 시간 문장, 「이 PC 남은 공간 C: 212GB · D: 820GB · 옮겨 올 것 18.4GB」(설계 2.3 「용량과 함께」) · F29 「폴더가 다시 보이면」 · F30 「앱이 골라 둔 그대로」 · 「첫 백업 중입니다」 · 「약 17분 남음」 · F32 복구 코드는 화면에서 가린 견본 + 줄 번호 1~9 + 「글자 보기」 · F33 분실 신고 「백업은 지워지지 않고, 잃어버린 노트북 안의 파일은 이 앱이 지울 수 없습니다」. 두지 않은 것: F19의 합계(12,480은 백업에 든 항목 수 — 연결 폴더 넷 포함). 설계 문장을 바꿀 것(F1 「모르는 기기 끊기 = 분실 신고와 같은 처리」 한 줄 · F25 4.12 「… 와 그 증거(확인서)만」)과 아직 없는 화면(F3 새 PC 갈래 · F7 지워진 목록 · F26 증명 줄의 다른 결과 · F33 설정 › 내 기기 · 손상 확인 · 용량 · 되돌린 뒤 멈춘 기본 화면)은 5절 |
 | 내용 다시 검수(카본, 11-13 09:52 — 카본 P1 9 · Fable 반영 뒤) | A 26개 화면 글 · 설계 발췌(2장 · 4.1 · 4.2 · 4.4 · 4.6~4.9 · 4.12) · 이 README · 그림 셋 | 처음 묶음(설계 전문 · 그림 넷 · 앞 답)은 09:08 · 09:28 두 번 다 생성 약 10분 만에 「오류가 발생했습니다」라 설계를 발췌해 줄인 묶음으로 받았다. 「고침 확인 됨 7/9 · P1 3 · P2 6 · P3 1」 — ①~⑦ 됨, ⑧ · ⑨는 새로 더한 화면에서 새 문제. 열 모두 설계에 대 보고 **모두 반영.** P1: 분실 신고 2에서 앱은 「업무 백업」 접근 지움(이 PC 토큰 끊김)만 알아채는데 「다 지웠는지 압니다」라 적고 두 걸음을 택일 단추처럼 놓았다 → 바로 가는 링크는 걸음마다, 주 단추 「두 걸음을 마쳤습니다 · 다시 로그인」으로 기기 로그아웃은 확인을 받음 · 옛 PC 안내의 「Google 계정 없이 옮기려면 복구 코드」는 복구 코드(읽기 열쇠만)로 이어서 백업까지 되는 것처럼 읽힘 → 「복구 코드로는 파일만 옮겨 옵니다. 이어서 백업하려면 Google 로그인」(설계 4.5 · 4.8) · 「지금 한 번 더 백업」 앞에 열어 둔 프로그램(Outlook 등) 닫기, 네 곳 밖 자료 · 공동인증서는 직접 옮기기(4.2). P2: 옮겨 오기 결과에 따로 둔 자동 실행 파일 둘의 이름 · 놓은 곳 · 「폴더 열기」 · 되돌리기 제목은 고른 시각(오후 2:59), 종이는 「그 시각의 가장 최근 판」(오후 2:02)으로 나눔(2.5) · 감염 의심이면 먼저 치료하거나 깨끗한 다른 PC에서(2.5 — 같은 사용자 권한의 프로그램은 새 Google 로그인도 읽음), 되돌린 뒤 「다음 할 일」에도 · 웹의 「내가 한 일이 맞음」 단추를 빼고 「내가 연결한 기기가 맞다면 창을 닫으세요」(설계 2.2는 「끊기」 하나) · 설정 서랍 「계정」의 「로그아웃」(설계에 없고 백업을 멈춤)을 빼고 「내 기기」의 분실 신고 길을 「다른 PC의 이 서랍이나, 기기를 처음 연결할 때 받은 메일의 링크」로 · OneDrive 밖 새 폴더에 「OneDrive 남은 공간을 넘으면 동기화가 멈출 수 있습니다」(4.6). P3: 첫 백업 「앱을 닫아도 Windows가 띄웁니다」 → 「창을 닫아도 매시간 뒤에서 조용히 돕니다」, 「매시간 · 로그인 직후 · 깨어난 직후」 → 「매시간 … 놓친 시간은 로그인 · 깨어난 뒤에 채웁니다」(4.2 — 55분 안이면 바로 끝남). 반영 뒤 26개 × 두 창 크기 주 단추 첫 화면, 캡처 52장 경고 0 |
+| Fable 5.2 다시 확인(검수 세션, 모델 `claude-fable-5-2` 확인, 11-13 오후 — 고친 자리만) | `a340617da`까지의 차이 전부 · 고친 화면 원고 · 카본 1 · 2차 원문 · 결정 11-08 · 11-12 · 로드맵 3 · 7장 · 다시 찍은 52장 가운데 낱장 아홉 | F1(P1) 닫힘 · 새 P0 · P1 0 · P2 2 · P3 3 — **모두 반영.** R1(꼭): 카본 ③을 받으며 되살리기에 넣은 「지난 24시간의 판은 모두 남아 있고 … 다른 시각 판 고르기」가 결정 11-12(화면 · 상품은 「최신 하나」, 「지난 판 고르기」는 유료 구간 후보)를 말없이 뒤집었다 → 노트 「붙들어 둔 판(찾을 수 없는 폴더 · 한꺼번에 지워지기 전)이 있으면 그 판에서도 꺼낼 수 있습니다」 · 링크 「붙들어 둔 판에서 꺼내기」(있을 때만), 2절 10번 줄 · 5절도 같이. R2: 웹 끝 화면 둘(끊은 뒤 남은 걸음 · 휴대폰 분실 신고)을 5절 「아직 없는 화면」에. R3: 웹의 「전에 받은 복구 코드도 쓸 수 없게」는 설계 넘김 1에 기댄다는 것을 5절에. R4: 옮겨 오기 1 「어림 — 시작하면」 → 「어림했고, 시작하면」(같이 찾은 알림 표 「손상 — 그날」 → 「손상 · 그날」). R5: 되돌리기 1 눈금을 오전 · 오후로 — 글이 길어져 세 시간마다 두면 기본 창 1080에서 겹쳐 8시간마다(「12일 오전 8시 · 오후 4시 · 13일 오전 12시 · 8시」), 네 창 크기에서 겹침 · 종이 밖 0. 반영 뒤 26개 × 두 창 크기 주 단추 첫 화면, 캡처 52장 경고 0 |
 
 ## 5. Tauri로 옮길 때
 
@@ -101,6 +102,6 @@ python -X utf8 experiences/solo-backup-rust/ui-mockups/_src/sheet.py 견줌 <캡
 - 움직임은 열 때 한 번과 누를 때뿐이고, Windows 「애니메이션 효과」 끔(`prefers-reduced-motion`)에서는 멈춘다.
 - 날짜 · 시각 · 남은 날은 실제 값에서 계산한다(마감일은 T + 29일, 요일은 날짜에서).
 - 넓은 창에서는 왼쪽 면(글 · 할 일)을 창에 붙이고 오른쪽 종이만 길어지게 하고, 높이 860 아래(기본 창 820)에서는 여백 · 제목을 줄인다 — 시안의 두 규칙 그대로.
-- 시안에는 입구만 있는 것: 「복구 코드로 되살리기」 입력(파일 열기 · 글자 넣기), 「다른 시각 판 고르기」 목록, 되살릴 「자리 바꾸기」, 「지금 한 번 더 백업」의 진행, 「지워진 3,980개 보기」 목록, 복구 코드 「글자 보기」 · 다시 깔 것 「인쇄」. 옮길 때 같은 뼈대로 그린다.
-- 아직 없는 화면(Fable F3 · F26 · F33): 새 PC의 갈래 「이 계정에 백업이 있습니다」(옮겨 오기 / 파일이 그대로 남은 PC / 사고 전으로 되돌린 뒤 옮겨 오기 — 설계 2.3), 증명 줄의 다른 결과(「23개 가운데 21개 같음 · 2개는 그 뒤 고쳐 견주지 못함」 · 표본 없음 — 4.7), 설정 › 내 기기(「나머지는 필요 없음」 · 다른 기기 분실 신고 입구), 손상 확인 화면, 용량 화면, 되돌린 뒤 멈춘 기본 화면. 옮길 때 이 넷 이상을 같은 뼈대로 먼저 그려 뼈대가 새 상태를 받는지 본다. 끊은 뒤 다시 깔 것 목록을 어디서 다시 여는지도 그때 정한다.
-- 설계에 넘길 문장(설계 문서 주인 몫): 4.8에 「메일 링크의 「모르는 기기 끊기」는 분실 신고와 같은 처리(쓰기 · 읽기 출입증 즉시 삭제, 전에 받은 복구 코드 못 씀)」 한 줄(웹 화면이 그렇게 적는다), 4.12 「한 화면에 … 만」을 「… 와 그 증거(확인서)만」으로.
+- 시안에는 입구만 있는 것: 「복구 코드로 되살리기」 입력(파일 열기 · 글자 넣기), 「붙들어 둔 판에서 꺼내기」 목록(붙들어 둔 판이 있을 때만 — 지난 판을 고르는 목록은 유료 구간 후보라 기본 상품에 그리지 않는다, 결정 11-12), 되살릴 「자리 바꾸기」, 「지금 한 번 더 백업」의 진행, 「지워진 3,980개 보기」 목록, 복구 코드 「글자 보기」 · 다시 깔 것 「인쇄」. 옮길 때 같은 뼈대로 그린다.
+- 아직 없는 화면(Fable F3 · F26 · F33 · 다시 확인 R2): 웹 — 「끊기」를 누른 뒤 남은 Google 걸음(`lost-2`의 종이 · 걸음 그대로)과 휴대폰에서 여는 분실 신고(남은 기기가 없을 때 신고 → Google 걸음 → 새 PC에서 이어 감 — 설계 2.4-1 · 2.4-5, PC 한 대뿐인 손님에게는 이 길 하나뿐), 새 PC의 갈래 「이 계정에 백업이 있습니다」(옮겨 오기 / 파일이 그대로 남은 PC / 사고 전으로 되돌린 뒤 옮겨 오기 — 설계 2.3), 증명 줄의 다른 결과(「23개 가운데 21개 같음 · 2개는 그 뒤 고쳐 견주지 못함」 · 표본 없음 — 4.7), 설정 › 내 기기(「나머지는 필요 없음」 · 다른 기기 분실 신고 입구), 손상 확인 화면, 용량 화면, 되돌린 뒤 멈춘 기본 화면. 옮길 때 이 넷 이상을 같은 뼈대로 먼저 그려 뼈대가 새 상태를 받는지 본다. 끊은 뒤 다시 깔 것 목록을 어디서 다시 여는지도 그때 정한다.
+- 설계에 넘길 문장(설계 문서 주인 몫): 4.8에 「메일 링크의 「모르는 기기 끊기」는 분실 신고와 같은 처리(쓰기 · 읽기 출입증 즉시 삭제, 전에 받은 복구 코드 못 씀)」 한 줄(웹 화면이 그렇게 적는다), 4.12 「한 화면에 … 만」을 「… 와 그 증거(확인서)만」으로. 앞 줄이 「끊기는 쓰기 연결만」으로 다르게 정해지면 웹 화면의 「전에 받은 복구 코드도 쓸 수 없게」와 상자의 「새로 맡길 복구 정보」도 같이 고친다 — 옮길 때 Fable 검수는 이 줄부터 본다(다시 확인 R3).

diff --git a/docs/_ops/트랙.md b/docs/_ops/트랙.md
@@ -27,7 +27,7 @@
 
 - **synk.im 뼈대 — 한국어 일곱 쪽 공개(11-11, Claude):** 유호님 「나 + 조각으로」([결정](결정.md)). synk-policy `e55e1c0`(일곱 쪽) → `135710f`(LAB `#drama`) → `620558b`(Fable 5.2 재검수 P1 · P2 고침) → `f932a1e`(네 번째 판 · 영어 PULSE 제목) → `1944c52`(다섯 번째 판 · 영어 제목 세 줄 · PULSE 첫 화면 가로형 쌓기, 11-12 — 배포 점검은 그 위 `5c7b3d3`에서 통과) → `0f8cea2` · `af78430` · `ea9711e` · `9e56be6`(PULSE 첫 화면 고침 · 마무리, ~11-13), 기준 그림 `4a8998c`, 원고 SYNK-website `claude/site-skeleton-20261110`(머리 `db7eb7d` — 게임 조각 `2f299ff` 합침 · 깜빡임 고침은 4단계 공개에 실림). 아르곤 0건(묶음 여럿) · Fable 5.2로 다시(P1 1 · P2 다수 반영) · 라이브 일곱 쪽 × 1440 · 390 넘침 · 깨진 그림 · 오류 · 실패 요청 0, 쪽 길이 컴퓨터 홈 10.2 → 6.2 · LAB 12.6 → 6.2 · SHIFT 10.6 → 6.9화면. 남은 일: PULSE 첫 화면은 넓은 창 낮은 높이 제목(유호님 차례)만(기록 「남은 일」 6) · PC 공개 도구가 질문창 자료 판 토막을 다시 안 셈(현장 노트 배포 공개 덧붙임 ⑦) · 처리방침 방문 통계 절의 한국어 홈 문구 · 엔진 base의 「강사 에이전시」 → PATH 답 · 못 넘은 길이 관문 — [기록 「2단계 · 공개(11-11)」](../디자인/synk.im_뼈대시안_20261110/README.md) · [비교 쪽](https://claude.ai/artifact/GtNY4ATeeP9HkRBfKQSfaF)(unmet29 계정). **3단계(11-12):** 아틀라스 「판단 기록」 · 창업자 맺음 공개 — synk-policy `e89211d` → 손질 `627c0b7`, 라이브 확인. 남은 일: 게임 화면을 틀린 순간으로 · 첫 문제 문항 판정 — [3단계 메모](../디자인/synk.im_뼈대시안_20261110/3단계_인계.md) · [전 · 후](https://claude.ai/artifact/5b7ytwCzNbgRRCkjrv1qv1)(unmet29 계정). **4단계(11-13):** 영어 일곱 쪽 · 몽골어 `/mn/`을 같은 뼈대로 공개 + 낮은 가로 창 손질 둘 — synk-policy `8dd8de0`, 기준 그림 `167b088`, 라이브 확인. 남은 일: 영어 SHIFT · 아틀라스 길이 관문 · 질문창의 옛 이름(두 언어) · 영어 PULSE 낮은 가로 창 제목 — [4단계 기록](../디자인/synk.im_뼈대시안_20261110/4단계_기록.md).
 
-- **업무 백업 0.7.0 화면 — A 확인서로 확정(11-13, Claude 곁 세션 · 유호님 「A로 정하기」):** 설계 4.12 「화면 다시」 첫 걸음으로 뼈대가 다른 시안 둘(A 확인서 · B 눈금, 각 24화면 · 1440 · 390)을 만들어 실제 앱 창 크기(1080×820 · 760×640)까지 견줘 A로 정했다([README](../../experiences/solo-backup-rust/ui-mockups/README.md) · [결정](결정.md)). 독립 검수(Opus) 41건 · 카본 미학 맹검 반영, 고른 뒤 카본 내용 검수 P1 9 · Fable 5.2 검수(P1 1 · P2 12 · P3 20 가운데 A 몫 모두) 반영(A 26화면 — 옛 PC 「옮겨 오기」 안내 · 분실 신고 2 더함, 26개 × 두 창 크기 주 단추 첫 화면). 카본 다시 검수(P1 3 · P2 6 · P3 1)도 반영. 남은 일: 12-07 주 Tauri로 옮기기(카본 + Fable 5.2, 설계에 넘길 문장 둘 · 그릴 화면은 README 5절).
+- **업무 백업 0.7.0 화면 — A 확인서로 확정(11-13, Claude 곁 세션 · 유호님 「A로 정하기」):** 설계 4.12 「화면 다시」 첫 걸음으로 뼈대가 다른 시안 둘(A 확인서 · B 눈금, 각 24화면 · 1440 · 390)을 만들어 실제 앱 창 크기(1080×820 · 760×640)까지 견줘 A로 정했다([README](../../experiences/solo-backup-rust/ui-mockups/README.md) · [결정](결정.md)). 독립 검수(Opus) 41건 · 카본 미학 맹검 반영, 고른 뒤 카본 내용 검수 P1 9 · Fable 5.2 검수(P1 1 · P2 12 · P3 20 가운데 A 몫 모두) 반영(A 26화면 — 옛 PC 「옮겨 오기」 안내 · 분실 신고 2 더함, 26개 × 두 창 크기 주 단추 첫 화면). 카본 다시 검수(P1 3 · P2 6 · P3 1) · Fable 5.2 다시 확인(P2 2 · P3 3 — 되살리기는 결정 11-12대로 「최신 하나」, 꺼낼 것은 붙들어 둔 판만)도 반영. 남은 일: 12-07 주 Tauri로 옮기기(카본 + Fable 5.2, 설계에 넘길 문장 둘 · 그릴 화면은 README 5절).
 
 > 2026-10-10 정리. 새 역할과 작업 방식은 [AI 운영 원칙](../AI_운영원칙.md), 이번 정리 결과는 [시스템 경량화](시스템_경량화_20261010.md)에 둔다. 아래 상태는 연결된 기존 기록의 요약이며 이번 정리에서 운영·공개 화면을 다시 검증한 것은 아니다.
 
